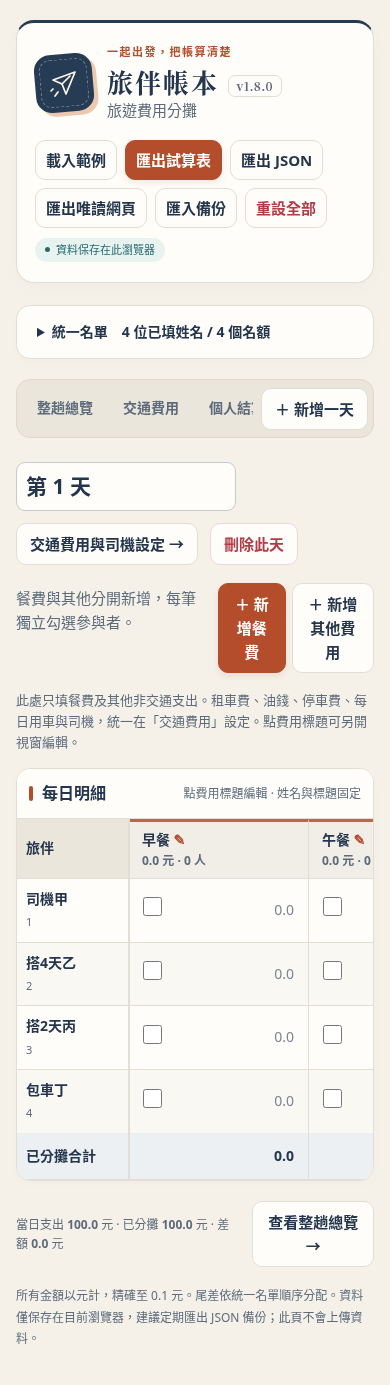
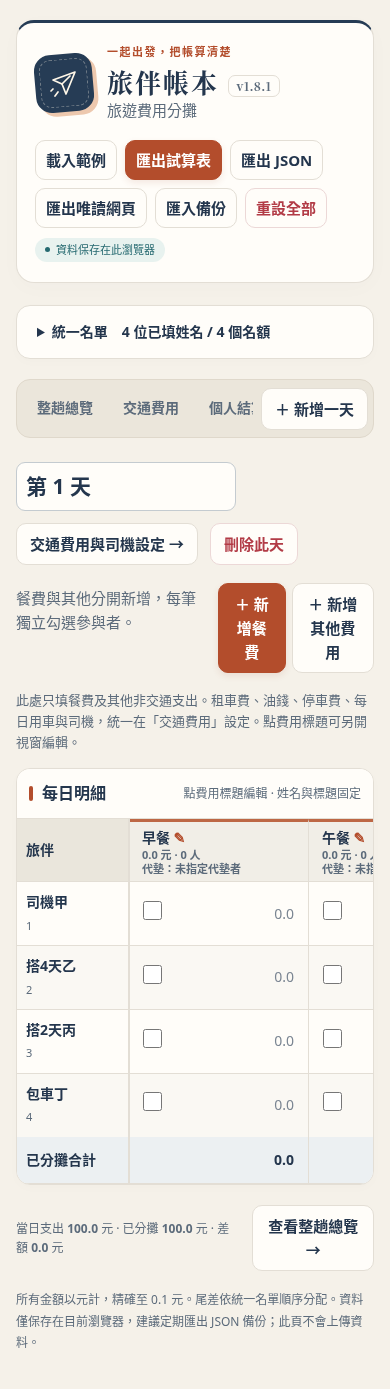
Show expense payers and clarify prepaid group fees and pending refunds in v1.8.1

diff --git a/index.html b/index.html
@@ -4,7 +4,7 @@
 <meta charset="utf-8">
 <meta name="viewport" content="width=device-width, initial-scale=1">
 <meta name="theme-color" content="#263c55">
-<title>旅伴帳本 v1.8.0｜旅遊費用分攤</title>
+<title>旅伴帳本 v1.8.1｜旅遊費用分攤</title>
 <style>
 :root{color-scheme:light;--ink:#24364d;--muted:#5c6b7b;--accent:#b34d2c;--pale:#f7e9df;--paper:#fffdf9;--bg:#f5f1e9;--line:#e3ded5;--amber:#946017;--red:#b23b46;--navy:#263c55;--teal:#256970;--teal-pale:#e8f2ef;--name:156px;--driver:88px;font-family:system-ui,-apple-system,"Noto Sans CJK TC","Microsoft JhengHei",sans-serif}
 
@@ -109,13 +109,16 @@ thead .driver-cell{z-index:5;background:#eae6dc}
 .daily-title{font-size:21px!important;font-weight:700;width:220px;background:var(--paper)!important;border-color:var(--line);border-bottom:2px solid #c6aa8e}
 .switch{display:flex;align-items:center;gap:8px;padding:8px 12px;background:var(--teal-pale);border-radius:10px;color:var(--teal)}
 .daily-note{font-size:13px;color:var(--muted);margin-bottom:15px}
-.expense-title{min-width:180px;width:180px;text-align:left;padding:8px 13px;line-height:1.4;border-top:3px solid #b5aa99}
+.expense-title{min-width:180px;width:180px;text-align:left;padding:6px 13px;line-height:1.4;border-top:3px solid #b5aa99}
 .expense-title[data-category="breakfast"],.expense-title[data-category="lunch"],.expense-title[data-category="dinner"]{border-top-color:#bd6745}
 .expense-title[data-category="fuel"],.expense-title[data-category="rental"]{border-top-color:#4e708d}
 .expense-title[data-category="parking"]{border-top-color:#508580}
 .expense-open{display:block;width:100%;border:0;background:transparent;padding:0;text-align:left;font-size:14px;line-height:1.4}
 .compact-expense-name{display:block;max-width:154px;white-space:nowrap;overflow:hidden;text-overflow:ellipsis;font-weight:700}
 .compact-expense-name [aria-hidden]{color:var(--accent)}
+.expense-meta,.expense-payer{display:block;font-size:11px;line-height:1.25;color:var(--muted)}
+.expense-payer{max-width:154px;white-space:nowrap;overflow:hidden;text-overflow:ellipsis}
+.payer-note{display:block;margin-top:4px;font-size:12px;line-height:1.4;font-weight:400;color:var(--muted);text-align:left;overflow-wrap:anywhere}
 .expense-open:hover{background:transparent;border-color:transparent;box-shadow:none;color:var(--accent)}
 .daily-compact-row .driver-cell{white-space:nowrap;font-size:12px}
 .expense-dialog{width:min(960px,calc(100vw - 48px));max-width:none;max-height:calc(100dvh - 48px);padding:0;border:1px solid var(--line);border-radius:16px;color:var(--ink);background:var(--bg);box-shadow:0 24px 100px #1d304f50}
@@ -220,7 +223,7 @@ body{background:white}
 <body>
 <div class="wrap">
   <header class="top">
-    <div class="brand"><div class="brandmark" aria-hidden="true"><svg width="32" height="32" viewBox="0 0 32 32" fill="none"><path d="M27 5 5 13l9 4 4 10L27 5Z" stroke="currentColor" stroke-width="1.7" stroke-linejoin="round"/><path d="m14 17 8-8M5 22l-2 2m7 1-3 4" stroke="currentColor" stroke-width="1.7" stroke-linecap="round"/></svg></div><div><div class="eyebrow">一起出發，把帳算清楚</div><h1>旅伴帳本 <span class="app-version" id="app-version">v1.8.0</span></h1><p class="muted">旅遊費用分攤</p></div></div>
+    <div class="brand"><div class="brandmark" aria-hidden="true"><svg width="32" height="32" viewBox="0 0 32 32" fill="none"><path d="M27 5 5 13l9 4 4 10L27 5Z" stroke="currentColor" stroke-width="1.7" stroke-linejoin="round"/><path d="m14 17 8-8M5 22l-2 2m7 1-3 4" stroke="currentColor" stroke-width="1.7" stroke-linecap="round"/></svg></div><div><div class="eyebrow">一起出發，把帳算清楚</div><h1>旅伴帳本 <span class="app-version" id="app-version">v1.8.1</span></h1><p class="muted">旅遊費用分攤</p></div></div>
     <div class="top-right"><div class="tools">
       <button type="button" data-action="example">載入範例</button>
       <button type="button" class="primary" data-action="export-sheet">匯出試算表</button>
@@ -244,7 +247,7 @@ body{background:white}
 <script id="trip-core">
 'use strict';
 const TripCore = (() => {
-  const APP_VERSION = '1.8.0';
+  const APP_VERSION = '1.8.1';
   const VERSION = 8;
   const LIMITS = Object.freeze({members:200, family:100, days:100, expenses:100, ledger:5000, units:1000000000});
   const CATEGORIES = Object.freeze({breakfast:'早餐', lunch:'午餐', dinner:'晚餐', meal:'餐費', fuel:'油錢', rental:'租車費', parking:'停車費', other:'其他'});
@@ -777,17 +780,20 @@ globalThis.TripExport=TripExport;
       ${!p?'<div class="warn">此成員尚未填姓名，既有紀錄仍保留，但不計入個人結算。請先在統一名單補齊姓名。</div>':''}
       <p class="daily-note" id="personal-family-note">本筆帳代表 ${C.familySize(member)} 人（含本人）。費用分攤按代表人數計算；代墊、加購、已繳款及加減金額為整筆實際金額，不再乘人數。</p>
       <div class="personal-metrics">${metrics.map(([key,label])=>`<div><span class="tiny muted">${label}</span><div class="money" data-personal="${key}">${money(p?.[key]||0)} 元</div></div>`).join('')}</div>
+      ${p?.paid>0&&p?.receive>0?`<div class="success" id="personal-refund-note" role="status"><strong>${esc(memberName(member))}尚待收回 ${money(p.receive)} 元。</strong><br>已繳款 ${money(p.paid)} 元，依目前費用、代墊及已退款紀錄計算。尚未退錢前保留「應收回」；實際退回後，再新增「已退款」，不要修改原本的已繳款。</div>`:''}
       <section class="panel"><div class="table-caption"><h3>應負擔明細</h3><button type="button" data-action="tab" data-tab="vehicles">查看交通計算 →</button></div><div class="table-scroll"><table class="settlement-table" aria-label="個人結算組成"><thead><tr><th>來源</th><th>金額（元）</th></tr></thead><tbody>
       <tr><th>餐費</th><td class="money" data-personal-source="meals">${money(p?.meals||0)}</td></tr>
       <tr><th>每日其他費用</th><td class="money" data-personal-source="daily-other">${money((p?.daily||0)-(p?.meals||0))}</td></tr>
       <tr><th>交通費用（自動帶入）<span class="person-index">租車 ${money(traffic?.rental||0)} ＋ 油錢 ${money(traffic?.fuel||0)} ＋ 停車 ${money(traffic?.parking||0)}</span></th><td class="money" data-personal-source="transport">${money(p?.transport||0)}</td></tr>
       <tr><th>個人加購</th><td class="money" data-personal-source="personal">${money(p?.personal||0)}</td></tr><tr><th>其他加減</th><td class="money" data-personal-source="adjustment">${money(p?.adjustment||0)}</td></tr></tbody><tfoot><tr><th>總應負擔</th><td class="money" data-personal-source="total">${money(p?.total||0)}</td></tr></tfoot></table></div>
       <p class="daily-note" style="padding:12px 18px;margin:0">交通代墊 <strong class="money" data-personal-source="transport-advanced">${money(p?.transportAdvanced||0)}</strong> 元，已包含於「已代墊」，只扣一次。交通金額隨原費用與名單變動更新，不必再新增個人紀錄。</p></section>
-      <section class="panel"><div class="table-caption"><h3>其他用途、加購與收退款</h3><span class="tiny muted">金額均填正數 · 單位：元</span></div><div class="table-scroll" id="personal-scroll"><table class="ledger-table" aria-label="個人紀錄"><thead><tr><th>類型</th><th>用途／備註</th><th>正負</th><th>金額</th><th>加購代墊者</th><th>操作</th></tr></thead><tbody>${entries.map(e=>{
+      <section class="panel" id="personal-advances"><div class="table-caption"><h3>已代墊明細（自動彙總）</h3><span class="tiny muted" id="personal-advance-person">${advances.length?'代墊者':'目前成員'}：${esc(memberName(member))} · 合計 ${money(p?.advanced||0)} 元</span></div>${advances.length?`<ul class="advance-list">${advances.map(a=>`<li>${esc(a.label)}：<strong class="money">${money(a.units)} 元</strong> <button type="button" class="text tiny" data-action="goto-expense" data-tab="${a.ledgerId?'personal':a.dayId}" data-person="${selectedPerson}" data-ledger="${a.ledgerId||''}" data-expense="${a.expenseId||''}">查看來源 →</button></li>`).join('')}</ul>`:'<p class="empty">尚無代墊紀錄。在交通費用、每日費用或個人加購指定代墊者，即會自動列入。</p>'}</section>
+      <p class="daily-note" id="personal-payment-help"><strong>代墊＝付給店家；已繳款＝交給主辦人。</strong>上方代墊明細已自動扣抵，請勿再填成已繳款。此處「加購代墊者」只用於個人加購。</p>
+      <section class="panel"><div class="table-caption"><h3>其他用途、加購與收退款</h3><span class="tiny muted">金額均填正數 · 單位：元</span></div><div class="table-scroll" id="personal-scroll"><table class="ledger-table" aria-label="個人紀錄"><thead><tr><th>類型</th><th>用途／備註</th><th>正負</th><th>金額</th><th>付款／代墊說明</th><th>操作</th></tr></thead><tbody>${entries.map(e=>{
         const result=s.ledgerResults.find(r=>r.id===e.id);
-        return `<tr><td><select id="ledger-type-${e.id}" data-field="ledger-type" data-ledger="${e.id}" aria-label="紀錄類型">${Object.entries(C.LEDGER_TYPES).map(([value,label])=>`<option value="${value}" ${e.type===value?'selected':''}>${label}</option>`).join('')}</select></td><td class="description"><input id="ledger-description-${e.id}" data-field="ledger-description" data-ledger="${e.id}" aria-label="項目備註" maxlength="160" value="${esc(e.description)}" placeholder="例如額外車資、折讓、訂金"><div class="expense-status">${result.issues.map(i=>esc(i.message)).join('<br>')}</div></td><td><select id="ledger-direction-${e.id}" data-field="ledger-direction" data-ledger="${e.id}" aria-label="正負方向" ${e.type!=='adjustment'?'disabled':''}><option value="plus" ${e.direction==='plus'?'selected':''}>＋ 加收</option><option value="minus" ${e.direction==='minus'?'selected':''}>－ 扣抵</option></select></td><td><input id="ledger-amount-${e.id}" data-field="ledger-amount" data-ledger="${e.id}" aria-label="紀錄金額" inputmode="decimal" maxlength="32" placeholder="0.0" value="${esc(e.amount)}" aria-invalid="${!result.amountValid}"></td><td>${e.type==='charge'?`<select id="ledger-payer-${e.id}" data-field="ledger-payer" data-ledger="${e.id}" aria-label="加購代墊者">${payerOptions(e)}</select>`:`<span class="tiny muted">${e.type==='adjustment'?'其他調整不新增支出':'與主辦人之間的收退款'}</span>`}</td><td><button type="button" class="small danger" data-action="delete-ledger" data-ledger="${e.id}">刪除</button></td></tr>`;
+        return `<tr><td><select id="ledger-type-${e.id}" data-field="ledger-type" data-ledger="${e.id}" aria-label="紀錄類型">${Object.entries(C.LEDGER_TYPES).map(([value,label])=>`<option value="${value}" ${e.type===value?'selected':''}>${label}</option>`).join('')}</select></td><td class="description"><input id="ledger-description-${e.id}" data-field="ledger-description" data-ledger="${e.id}" aria-label="項目備註" maxlength="160" value="${esc(e.description)}" placeholder="例如額外車資、折讓、訂金"><div class="expense-status">${result.issues.map(i=>esc(i.message)).join('<br>')}</div></td><td><select id="ledger-direction-${e.id}" data-field="ledger-direction" data-ledger="${e.id}" aria-label="正負方向" ${e.type!=='adjustment'?'disabled':''}><option value="plus" ${e.direction==='plus'?'selected':''}>＋ 加收</option><option value="minus" ${e.direction==='minus'?'selected':''}>－ 扣抵</option></select></td><td><input id="ledger-amount-${e.id}" data-field="ledger-amount" data-ledger="${e.id}" aria-label="紀錄金額" inputmode="decimal" maxlength="32" placeholder="0.0" value="${esc(e.amount)}" aria-invalid="${!result.amountValid}"></td><td>${e.type==='charge'?`<select id="ledger-payer-${e.id}" data-field="ledger-payer" data-ledger="${e.id}" aria-label="加購代墊者">${payerOptions(e)}</select>`:`<span class="tiny muted">${e.type==='adjustment'?'其他調整不新增支出':e.type==='payment'?'繳款人：'+esc(memberName(member))+' → 主辦人（預收團費）':'主辦人 → '+esc(memberName(member))+'（已退款）'}</span>`}</td><td><button type="button" class="small danger" data-action="delete-ledger" data-ledger="${e.id}">刪除</button></td></tr>`;
       }).join('')||'<tr><td colspan="6" class="empty">尚無個人紀錄，按「新增個人紀錄」填用途、金額及正負。</td></tr>'}</tbody></table></div></section>
-      <section class="panel"><div class="table-caption"><h3>已代墊明細（自動彙總）</h3><span class="tiny muted">同一筆費用只記一次</span></div>${advances.length?`<ul class="advance-list">${advances.map(a=>`<li>${esc(a.label)}：<strong class="money">${money(a.units)} 元</strong> <button type="button" class="text tiny" data-action="goto-expense" data-tab="${a.ledgerId?'personal':a.dayId}" data-person="${selectedPerson}" data-ledger="${a.ledgerId||''}" data-expense="${a.expenseId||''}">查看來源 →</button></li>`).join('')}</ul>`:'<p class="empty">尚無代墊紀錄。在交通費用、每日費用或個人加購指定代墊者，即會自動列入。</p>'}</section>
+
       <p class="muted tiny">代墊＝已替旅伴付給店家；已繳款＝已交給主辦人的款項。若每日費用已填代墊者，請勿再次當作已繳款登錄。退款實際付出後才記「已退款」。其他用途的 ＋／－ 調整只改變應付金額，不算新支出；真正加購請選「個人加購」並指定代墊者。</p>`;
   }
   function shareRange(r) {
@@ -795,6 +801,14 @@ globalThis.TripExport=TripExport;
     if(!values.length||r.blocked)return '暫不分攤';
     const lo=Math.min(...values),hi=Math.max(...values);
     const unit=r.grouped?'組':'人';return lo===hi?`${money(lo)} 元／${unit}`:`${money(lo)}–${money(hi)} 元／${unit}`;
+  }
+  function payerName(e) {
+    const person=state.members.find(m=>m.id===e?.payerId);
+    return person&&C.isNamed(person)?person.name.trim():e?.payerId?'原代墊者未填姓名':'未指定代墊者';
+  }
+  function payerNote(e,compact=false) {
+    const label='代墊：'+payerName(e);
+    return `<span class="${compact?'expense-payer':'payer-note'}" data-payer="${e?.id||''}" title="${esc(label)}">${esc(label)}</span>`;
   }
   function payerOptions(e) {
     let html=`<option value="">未指定代墊者</option>`;
@@ -942,7 +956,7 @@ globalThis.TripExport=TripExport;
     const ungrouped=state.carExpenses.filter(e=>!e.vehicleId),vehicleRows=state.vehicles.map(v=>{
       const related=state.carExpenses.filter(e=>e.vehicleId===v.id),rent=related.find(e=>e.category==='rental'),gas=related.find(e=>e.category==='fuel'),rental=rent?C.parseTripAmount(rent):{ok:true,units:0,grossUnits:0,discountUnits:0},fuel=gas?C.parseTripAmount(gas):{ok:true,units:0};
       const pending=results.filter((r,i)=>state.carExpenses[i].vehicleId===v.id).reduce((n,r)=>n+r.issues.length,0);
-      return `<tr><th class="name-cell">${esc(v.name||'未命名車輛')}${pending?`<span class="person-index">待處理 ${pending} 項 · 請編輯或檢查搭車名單</span>`:''}</th><td class="money" data-fleet="${v.id}-rental-gross">${money(rental.grossUnits)}</td><td class="money" data-fleet="${v.id}-discount">${rental.discountValid===false?'待修正':money(rental.discountUnits)}${rent?.discountNote?`<span class="person-index" style="display:block">${esc(rent.discountNote)}</span>`:''}</td><td class="money" data-fleet="${v.id}-rental">${rental.ok?money(rental.units):'待修正'}</td><td class="money" data-fleet="${v.id}-fuel">${fuel.ok?money(fuel.units):'待修正'}</td><td class="money" data-fleet="${v.id}-total">${rental.ok&&fuel.ok?money(rental.units+fuel.units):'待修正'}</td><td><button type="button" class="small" data-action="edit-vehicle" data-vehicle="${v.id}">${readOnly?'查看':'編輯'}</button></td></tr>`;
+      return `<tr><th class="name-cell">${esc(v.name||'未命名車輛')}${pending?`<span class="person-index">待處理 ${pending} 項 · 請編輯或檢查搭車名單</span>`:''}</th><td class="money"><span data-fleet="${v.id}-rental-gross">${money(rental.grossUnits)}</span>${payerNote(rent)}</td><td class="money" data-fleet="${v.id}-discount">${rental.discountValid===false?'待修正':money(rental.discountUnits)}${rent?.discountNote?`<span class="person-index" style="display:block">${esc(rent.discountNote)}</span>`:''}</td><td class="money" data-fleet="${v.id}-rental">${rental.ok?money(rental.units):'待修正'}</td><td class="money"><span data-fleet="${v.id}-fuel">${fuel.ok?money(fuel.units):'待修正'}</span>${payerNote(gas)}</td><td class="money" data-fleet="${v.id}-total">${rental.ok&&fuel.ok?money(rental.units+fuel.units):'待修正'}</td><td><button type="button" class="small" data-action="edit-vehicle" data-vehicle="${v.id}">${readOnly?'查看':'編輯'}</button></td></tr>`;
     }).join('');
     $('view').innerHTML=`<div class="section-head"><div><h2>交通費用</h2><p class="muted">每台車分開填租金與油錢，合併按乘車人天分攤。</p></div></div>
       ${renderTransportDays()}
@@ -950,7 +964,7 @@ globalThis.TripExport=TripExport;
       <div class="stats"><div class="stat featured"><div class="label">總車資</div><div class="value money" data-transport="total">${money(fuel+rental)}<span class="unit">元</span></div><div class="note">實際支出 ${money(transport.cashExpense)} − 優惠收入 ${money(transport.income)} 元</div></div><div class="stat"><div class="label">租金分攤淨額</div><div class="value money" data-transport="rental">${money(rental)}<span class="unit">元</span></div><div class="note">${invalidRental?'有待修正的原租金或優惠；修正前保留實付及代墊、暫不分攤':'實付／代墊 '+money(grossRental)+' − 收入 '+money(discounts)+' 元'}</div></div><div class="stat"><div class="label">總油錢</div><div class="value money" data-transport="fuel">${money(fuel)}<span class="unit">元</span></div></div><div class="stat"><div class="label">已分攤</div><div class="value money">${money(sum('allocated'))}<span class="unit">元</span></div><div class="note">差額 ${money(sum('units')-sum('allocated'))} 元</div></div></div>
       <p class="daily-note">交通自理者不計人天；當司機的日期免付。每天可選全天或半天（0.5人天／人）；名單儲存後會套用本區所有車資。僅登錄本團車輛；他人自付的包車費不列入。租車與油錢只填一次；下方每日交通支出為選填，僅供停車等額外費用。同一筆費用請勿重複輸入。</p>
       <section class="panel"><div class="table-caption"><h3>各車租金與油錢</h3><span class="tiny muted">${state.vehicles.length} 台車 · 單位：元</span></div><div class="table-scroll"><table style="min-width:850px" aria-label="各車交通費用"><thead><tr><th class="name-cell corner">車輛</th><th>租金實付／代墊</th><th>優惠收入</th><th>租金分攤淨額</th><th>油錢</th><th>該車合計</th><th>操作</th></tr></thead><tbody>${vehicleRows||'<tr><td colspan="7" class="empty">按「新增車輛」逐台填寫，例如大車1、大車2、小車。</td></tr>'}</tbody></table></div></section>
-      ${ungrouped.length?`<section class="panel"><div class="table-caption"><h3>其他整趟車資</h3></div><div class="table-scroll"><table class="trip-costs-table" aria-label="整趟車資費用"><thead><tr><th scope="col">費用（點選${readOnly?'查看':'編輯'}）</th><th scope="col">總金額</th><th scope="col">分攤方式</th><th scope="col">涵蓋日期</th><th scope="col">已分攤</th><th scope="col">狀態</th></tr></thead><tbody>${ungrouped.map(e=>{const r=results[state.carExpenses.indexOf(e)];return `<tr><td><button id="edit-${e.id}" type="button" class="text" data-action="open-expense" data-expense="${e.id}">${esc(e.name||'未命名費用')} ↗</button></td><td class="money">${r.amountValid?money(r.units):'待修正'}</td><td>${e.method==='person-days'?'依乘車人天':'先平均每天'}</td><td>${r.days.map(day=>esc(day.dayName||'未命名日期')).join('、')||'未選日期'}</td><td class="money">${money(r.allocated)}</td><td>${r.issues.length?'待處理 '+r.issues.length+' 項':'已核對'}</td></tr>`;}).join('')}</tbody></table></div></section>`:!state.vehicles.length?'<div class="trip-empty"><h3>還車才加油，也能整趟分攤</h3><p class="muted">新增一筆總油錢，勾選涵蓋的日期與每日乘客；多台車可合併總額，或分成多筆記錄。</p></div>':''}
+      ${ungrouped.length?`<section class="panel"><div class="table-caption"><h3>其他整趟車資</h3></div><div class="table-scroll"><table class="trip-costs-table" aria-label="整趟車資費用"><thead><tr><th scope="col">費用（點選${readOnly?'查看':'編輯'}）</th><th scope="col">分攤淨額／代墊者</th><th scope="col">分攤方式</th><th scope="col">涵蓋日期</th><th scope="col">已分攤</th><th scope="col">狀態</th></tr></thead><tbody>${ungrouped.map(e=>{const r=results[state.carExpenses.indexOf(e)];return `<tr><td><button id="edit-${e.id}" type="button" class="text" data-action="open-expense" data-expense="${e.id}">${esc(e.name||'未命名費用')} ↗</button></td><td class="money">${r.amountValid?money(r.units):'待修正'}${payerNote(e)}<span class="payer-note">實際代墊 ${money(r.advanceUnits)} 元</span></td><td>${e.method==='person-days'?'依乘車人天':'先平均每天'}</td><td>${r.days.map(day=>esc(day.dayName||'未命名日期')).join('、')||'未選日期'}</td><td class="money">${money(r.allocated)}</td><td>${r.issues.length?'待處理 '+r.issues.length+' 項':'已核對'}</td></tr>`;}).join('')}</tbody></table></div></section>`:!state.vehicles.length?'<div class="trip-empty"><h3>還車才加油，也能整趟分攤</h3><p class="muted">新增一筆總油錢，勾選涵蓋的日期與每日乘客；多台車可合併總額，或分成多筆記錄。</p></div>':''}
       ${renderDailyTransport()}
 <section class="panel"><div class="table-caption"><h3>交通結算 · 自動帶入個人結算</h3><button type="button" data-action="tab" data-tab="personal">查看個人結算 →</button></div><p class="daily-note" style="padding:0 18px">交通支出 ${money(transport.total)} 元 · 已分攤 ${money(transport.allocated)} 元 · 差額 ${money(transport.difference)} 元。包含各車租金、油錢及每日停車等交通支出。</p><div class="table-scroll"><table aria-label="交通結算"><thead><tr><th>旅伴</th><th>租車費</th><th>油錢</th><th>停車費</th><th>交通分攤</th><th>交通代墊</th></tr></thead><tbody>${transport.people.map(p=>`<tr><th>${esc(p.name)}${p.count>1?`<span class="person-index"> · 代表 ${p.count} 人</span>`:''}</th>${['rental','fuel','parking','total','advanced'].map(key=>`<td class="money" data-transport-person="${p.id}-${key}" ${['rental','fuel'].includes(key)?`data-vehicle="${p.id}-${key}"`:''}>${money(p[key])}</td>`).join('')}</tr>`).join('')}</tbody></table></div></section>`;
   }
@@ -958,7 +972,7 @@ globalThis.TripExport=TripExport;
     const d=currentDay();if(!d){active='overview';renderOverview();return;}
     const visible=d.expenses.filter(e=>!C.isTransport(e));
     const results=new Map(visible.map(e=>[e.id,C.calculateExpense(state,d,e)]));
-    const titles=visible.map(e=>{const r=results.get(e.id);return `<th scope="col" class="expense-title" data-category="${e.category}" id="title-${e.id}"><button type="button" class="expense-open" id="edit-${e.id}" data-action="open-expense" data-expense="${e.id}" aria-label="${readOnly?'查看':'編輯'}費用 ${esc(e.name||'未命名費用')}"><span class="compact-expense-name" title="${esc(e.name||'未命名費用')}">${esc(e.name||'未命名費用')} <span aria-hidden="true">${readOnly?'↗':'✎'}</span></span><span class="tiny muted">${r.amountValid?money(r.units)+' 元':'金額待修正'} · <span data-count="${e.id}">${r.blocked?0:r.participantCount}</span> 人${r.issues.length?' · 待處理':''}</span></button></th>`;}).join('');
+    const titles=visible.map(e=>{const r=results.get(e.id);return `<th scope="col" class="expense-title" data-category="${e.category}" id="title-${e.id}"><button type="button" class="expense-open" id="edit-${e.id}" data-action="open-expense" data-expense="${e.id}" aria-label="${readOnly?'查看':'編輯'}費用 ${esc(e.name||'未命名費用')}"><span class="compact-expense-name" title="${esc(e.name||'未命名費用')}">${esc(e.name||'未命名費用')} <span aria-hidden="true">${readOnly?'↗':'✎'}</span></span><span class="expense-meta">${r.amountValid?money(r.units)+' 元':'金額待修正'} · <span data-count="${e.id}">${r.blocked?0:r.participantCount}</span> 人${r.issues.length?' · 待處理':''}</span>${payerNote(e,true)}</button></th>`;}).join('');
     const rows=state.members.map((m,i)=>`<tr><th scope="row" class="name-cell"><span class="person-label ${C.isNamed(m)?'':'muted'}">${esc(memberName(m))}</span><span class="person-index">${i+1} ${!C.isNamed(m)?'· 不列入分攤':C.familySize(m)>1?`· 代表 ${C.familySize(m)} 人`:''}</span></th>
       ${visible.map(e=>{const r=results.get(e.id), exempt=C.isCar(e)&&d.useCar&&d.drivers.includes(m.id)&&C.isNamed(m);return `<td><div class="participation"><label><input type="checkbox" id="part-${e.id}-${m.id}" data-field="participation" data-person="${m.id}" data-expense="${e.id}" aria-label="${esc(memberName(m))} 參與 ${esc(e.name||'未命名費用')} 費用 ${d.expenses.indexOf(e)+1}" ${e.participantIds.includes(m.id)?'checked':''} ${C.isNamed(m)&&!(C.isTransport(e)&&m.excludeTransport)?'':'disabled'}></label><div><span class="amount-label money ${r.shares[m.id]?'':'cell-zero'}" data-share="${e.id}-${m.id}">${money(r.shares[m.id])}</span><span class="cell-note">${C.isTransport(e)&&m.excludeTransport?'交通自理 · 不計費':exempt?'司機免車資':C.isCar(e)&&!d.useCar?'當日未用車':!C.isNamed(m)?'待填姓名':r.blocked?'待處理':''}</span></div></div></td>`;}).join('')}</tr>`).join('');
     const issues=visible.reduce((n,e)=>n+results.get(e.id).issues.length,0), total=visible.reduce((n,e)=>n+results.get(e.id).units,0), allocated=visible.reduce((n,e)=>n+results.get(e.id).allocated,0);

diff --git a/tests/browser_test.py b/tests/browser_test.py
@@ -60,8 +60,8 @@ def main():
 
             context.route('**/*', route_request)
             page.goto(url)
-            expect(page).to_have_title('旅伴帳本 v1.8.0｜旅遊費用分攤')
-            expect(page.locator('#app-version')).to_have_text('v1.8.0')
+            expect(page).to_have_title('旅伴帳本 v1.8.1｜旅遊費用分攤')
+            expect(page.locator('#app-version')).to_have_text('v1.8.1')
             expect(page.get_by_role('tab')).to_have_count(7)
             expect(page.locator('#total-expense')).to_have_text('0.0元')
             expect(page.locator('#roster-summary')).to_contain_text('0 位已填姓名 / 25 個名額')
@@ -488,7 +488,7 @@ def main():
             editor_state = state()
             shared = context.new_page()
             shared.goto(url.replace('index.html', 'shared-view.html'))
-            expect(shared).to_have_title('旅伴帳本 v1.8.0｜唯讀旅遊費用')
+            expect(shared).to_have_title('旅伴帳本 v1.8.1｜唯讀旅遊費用')
             expect(shared.locator('.tools')).to_be_hidden()
             expect(shared.locator('#roster')).to_be_hidden()
             expect(shared.locator('[data-action="add-day"]')).to_be_hidden()
@@ -957,9 +957,17 @@ def main():
             expect(page.locator('#ledger-direction-' + payment)).to_be_disabled()
             expect(page.locator('#ledger-direction-' + payment)).to_have_value('minus')
             expect(page.locator('[data-personal="receive"]')).to_have_text('3,260.0 元')
+            expect(page.locator('#personal-refund-note')).to_contain_text('甲旅伴尚待收回 3,260.0 元')
+            expect(page.locator('#personal-scroll')).to_contain_text('繳款人：甲旅伴 → 主辦人（預收團費）')
+            assert not any(e['type']=='refund' for e in state()['ledger'])
+            before_refund=state();page.reload();assert state()==before_refund
+            expect(page.locator('#personal-refund-note')).to_contain_text('不要修改原本的已繳款')
+            record('預繳10000但只負擔6740，清楚顯示繳款人與待退3260；刷新保留，未實際退款不會自動新增退款')
             refund = add_entry('refund', '已退回差額', '3260')
             expect(page.locator('[data-personal="receive"]')).to_have_text('0.0 元')
             expect(page.locator('[data-personal="pay"]')).to_have_text('0.0 元')
+            expect(page.locator('#personal-refund-note')).to_have_count(0)
+            expect(page.locator('#personal-scroll')).to_contain_text('主辦人 → 甲旅伴（已退款）')
             tab('overview')
             expect(page.locator('#total-expense')).to_have_text('6,740.0元')
             expect(page.locator('#collected-total')).to_contain_text('6,740.0 元')
@@ -1347,18 +1355,63 @@ def main():
             assert report['整趟車資']['J4'].value==5250
             assert report['整趟總覽']['J3'].value==6310 and report['整趟總覽']['L3'].value==400
             assert report['個人結算']['H4'].value==6010 and report['個人結算']['M4'].value==1654.3
-            assert 'v1.8.0' in report['整趟總覽']['A1'].value
-            assert report['使用說明']['B3'].value=='v1.8.0'
+            assert 'v1.8.1' in report['整趟總覽']['A1'].value
+            assert report['使用說明']['B3'].value=='v1.8.1'
             with page.expect_download() as info:page.get_by_role('button',name='匯出唯讀網頁',exact=True).click()
             income_view=artifacts/'rental-income-view.html';info.value.save_as(income_view)
             context.route('**/rental-income-view.html',lambda r:r.fulfill(path=str(income_view),content_type='text/html; charset=utf-8'))
             ir=context.new_page();ir.goto(url.replace('index.html','rental-income-view.html'))
-            expect(ir).to_have_title('旅伴帳本 v1.8.0｜唯讀旅遊費用')
-            expect(ir.locator('#app-version')).to_have_text('v1.8.0')
+            expect(ir).to_have_title('旅伴帳本 v1.8.1｜唯讀旅遊費用')
+            expect(ir.locator('#app-version')).to_have_text('v1.8.1')
             expect(ir.locator('#total-income')).to_have_text('400.0')
             ir.locator('#tab-personal').click();ir.locator('#personal-person').select_option(fa)
             expect(ir.locator('[data-personal="advanced"]')).to_have_text('6,010.0 元');ir.close()
-            record('收入與全額代墊可保存還原及匯出，頁面／分頁標題／唯讀網頁／XLSX一致顯示v1.8.0')
+            record('收入與全額代墊可保存還原及匯出，頁面／分頁標題／唯讀網頁／XLSX一致顯示v1.8.1')
+
+            # Names are visible at the original costs and the prepaid group-payment row.
+            current=state();rent_cost=next(e for e in current['carExpenses'] if e['category']=='rental')
+            gas_cost=next(e for e in current['carExpenses'] if e['category']=='fuel')
+            tab('vehicles')
+            expect(page.locator(f'[data-payer="{rent_cost["id"]}"]')).to_have_text('代墊：甲家庭改名')
+            expect(page.locator(f'[data-payer="{gas_cost["id"]}"]')).to_have_text('代墊：乙家庭')
+            old_name=current['members'][0]['name'];display_name='甲主辦人 & <同行>'
+            roster();page.locator('#name-'+fa).fill(display_name);roster(False)
+            expect(page.locator(f'[data-payer="{rent_cost["id"]}"]')).to_have_text('代墊：'+display_name)
+            tab(family_days[0]);meal_id=next(e['id'] for e in state()['days'][0]['expenses'] if e['category']=='breakfast')
+            expect(page.locator(f'[data-payer="{meal_id}"]')).to_have_text('代墊：'+display_name)
+            assert page.locator('.daily-compact-row').bounding_box()['height']<=64
+            tab('personal');page.locator('#personal-person').select_option(fa)
+            expect(page.locator('#personal-advance-person')).to_contain_text('代墊者：'+display_name)
+            expect(page.locator('#personal-advance-person')).to_contain_text('6,010.0 元')
+            expect(page.locator('#personal-scroll')).to_contain_text('繳款人：'+display_name+' → 主辦人（預收團費）')
+            assert page.locator('#personal-advances').evaluate('(el)=>Boolean(el.compareDocumentPosition(document.querySelector("#personal-scroll")) & Node.DOCUMENT_POSITION_FOLLOWING)')
+            expect(page.locator('[data-personal="advanced"]')).to_have_text('6,010.0 元')
+            expect(page.locator('[data-personal="receive"]')).to_have_text('1,654.3 元')
+            page.screenshot(path=str(artifacts/'visible-payers-personal.png'),full_page=True)
+            roster();page.locator('#name-'+fa).fill('');roster(False);tab('vehicles')
+            expect(page.locator(f'[data-payer="{rent_cost["id"]}"]')).to_have_text('代墊：原代墊者未填姓名')
+            roster();page.locator('#name-'+fa).fill(old_name);roster(False)
+            page.locator(f'[data-action="edit-vehicle"][data-vehicle="{discount_vehicle}"]').click()
+            page.locator('#vehicle-rental-payer').select_option('');page.get_by_role('button',name='儲存車輛',exact=True).click()
+            expect(page.locator(f'[data-payer="{rent_cost["id"]}"]')).to_have_text('代墊：未指定代墊者')
+            page.locator(f'[data-action="edit-vehicle"][data-vehicle="{discount_vehicle}"]').click()
+            page.locator('#vehicle-rental-payer').select_option(fa);page.get_by_role('button',name='儲存車輛',exact=True).click()
+            assert state()==current
+            page.reload();expect(page.locator(f'[data-payer="{rent_cost["id"]}"]')).to_have_text('代墊：甲家庭改名')
+            with page.expect_download() as info:page.get_by_role('button',name='匯出唯讀網頁',exact=True).click()
+            payer_view=artifacts/'visible-payers-view.html';info.value.save_as(payer_view)
+            context.route('**/visible-payers-view.html',lambda r:r.fulfill(path=str(payer_view),content_type='text/html; charset=utf-8'))
+            pv=context.new_page();pv.goto(url.replace('index.html','visible-payers-view.html'));pv.locator('#tab-vehicles').click()
+            expect(pv.locator(f'[data-payer="{rent_cost["id"]}"]')).to_have_text('代墊：甲家庭改名')
+            pv.locator('#tab-personal').click();pv.locator('#personal-person').select_option(fa)
+            expect(pv.locator('#personal-advance-person')).to_contain_text('6,010.0 元');pv.close()
+            page.set_viewport_size({'width':390,'height':844});tab(family_days[0])
+            expect(page.locator(f'[data-payer="{meal_id}"]')).to_have_text('代墊：甲家庭改名')
+            assert page.locator('.daily-compact-row').bounding_box()['height']<=64
+            assert page.evaluate('document.documentElement.scrollWidth<=innerWidth+1')
+            page.screenshot(path=str(artifacts/'visible-payers-mobile.png'),full_page=True)
+            page.set_viewport_size({'width':1440,'height':1000})
+            record('租金／油錢／每日費用直接顯示代墊者，個人代墊明細前移；改名安全同步、空白未指定清楚提示，唯讀及手機正確且標題仍不超過64px')
 
             assert not errors, errors
             assert not external_requests, external_requests

diff --git a/tests/export_test.py b/tests/export_test.py
@@ -93,8 +93,8 @@ def main():
         assert units(ov['J3'].value)==summary['cashExpense']
         assert units(ov['L3'].value)==summary['income']
         assert summary['cashExpense']-summary['income']==summary['total']
-        assert 'v1.8.0' in ov['A1'].value
-        assert wb['使用說明']['B3'].value=='v1.8.0'
+        assert 'v1.8.1' in ov['A1'].value
+        assert wb['使用說明']['B3'].value=='v1.8.1'
         assert units(ov['D3'].value)==summary['allocated']
         assert units(ov['F3'].value)==summary['difference']
         assert ov['H3'].value==len(summary['issues'])

diff --git a/README.md b/README.md
@@ -1,6 +1,6 @@
-# 旅伴帳本 v1.8.0：HTML 記帳、Google 試算表分享
+# 旅伴帳本 v1.8.1：HTML 記帳、Google 試算表分享
 
-頁面主標題、瀏覽器分頁、唯讀分享網頁與 XLSX 報表均顯示 **v1.8.0**。本版修正：租車優惠為額外收入，不能扣掉代墊者實際支付的金額。
+頁面主標題、瀏覽器分頁、唯讀分享網頁與 XLSX 報表均顯示 **v1.8.1**。本版直接顯示代墊者，並在個人結算區分「預收團費」「代墊」「待退款」。租車優惠為額外收入，不能扣掉代墊者實際支付的金額。
 
 你在 HTML 填費用、勾參與者，工具完成分攤後匯出 `.xlsx`，再用 Google 試算表分享給旅伴看。不需要登入網頁、後端、外部 API、CDN 或 Apps Script。
 
@@ -110,7 +110,13 @@ python -m http.server 8000 --bind 127.0.0.1
 
 金額欄填非負數，正負方向另選。加購、繳款、退款的方向由類型固定，避免記反；「其他用途／調整」可自行選 ＋／－。不會自行四捨五入成整十元。
 
-「**已代墊明細**」自動列出每日費用、各車租金與油錢和個人加購的代墊來源，可點回原費用修改。**代墊是付給店家；已繳款是交給主辦人，同一筆不可重複登錄扣款。**
+「**已代墊明細**」移到收退款表格前，直接顯示目前代墊者姓名與合計，自動列出每日費用、各車租金與油錢和個人加購的代墊來源，可點回原費用修改。**代墊是付給店家；已繳款是交給主辦人，同一筆不可重複登錄扣款。**
+
+**先交 10,000 元給主辦人**：在交錢者的「個人結算」選「已繳款」，填預收的 10,000 元。這筆不是代墊；表格會顯示「繳款人：姓名 → 主辦人（預收團費）」。若最後只需負擔 6,740 元，會顯示「應收回 3,260 元」及待退款提示。尚未實際退款前，不改原本的已繳款，也不先新增退款；真正退還後，才新增「已退款 3,260 元」，並顯示退款方向。
+
+租車與油錢的實付金額下方、每日費用的精簡標題，以及額外整趟車資，都直接顯示代墊者姓名；未指定或姓名被清空時有明確提示，改名沿用 ID 同步更新。每日固定標題仍不超過 64px，不增加嵌入式表單。
+
+[預收團費與待退款桌面畫面](docs/preview-prepaid-refund.png) · [手機待退款畫面](docs/preview-prepaid-refund-mobile.png)
 
 總應負擔＝各項費用分攤＋個人加購＋其他加減；還要付＝總應負擔－已代墊－已繳款＋已退款，負數列為應收回。例如費用 6,740、先繳 10,000，應收回 3,260；實際退回後登錄已退款 3,260，即結清。
 
@@ -154,4 +160,4 @@ python tests/browser_test.py --browser /path/to/chromium
 
 計算測試使用 Node.js 18 以上。XLSX 測試需要 Python 與 openpyxl；瀏覽器測試另需 Playwright 與 Chromium。網頁本身不需要安裝這些測試工具。
 
-實測通過 83 項計算、58 組瀏覽器情境及 31 組 XLSX 匯出；涵蓋逐人逐日全天／半天、半天家庭及司機、半天備份／報表、逐車租車優惠、實付與收入分列、優惠不減代墊、5250元實付案例、版本顯示、家庭代表人數、家庭司機只免一人、家庭人天與備份、每日餐費／其他兩個入口、無類別選單、交通與每日明細分開、個人結算只帶入一次、三車不同租金、交通自理排除、乘車人天、獨立三餐、每日司機、尾差、個人加減、代墊、收退款、保存還原、精簡固定標題、獨立編輯視窗、取消與儲存，以及 390px 手機全螢幕。詳見 [測試紀錄](TEST_RESULTS.md)。Google 帳戶內的實際匯入與共用未實測；環境政策阻擋 `file://`，瀏覽器實測使用本機 HTTP。
+實測通過 83 項計算、60 組瀏覽器情境及 31 組 XLSX 匯出；涵蓋逐人逐日全天／半天、半天家庭及司機、半天備份／報表、逐車租車優惠、實付與收入分列、優惠不減代墊、5250元實付案例、版本顯示、家庭代表人數、家庭司機只免一人、家庭人天與備份、每日餐費／其他兩個入口、無類別選單、交通與每日明細分開、個人結算只帶入一次、三車不同租金、交通自理排除、乘車人天、獨立三餐、每日司機、尾差、個人加減、代墊、收退款、保存還原、精簡固定標題、獨立編輯視窗、取消與儲存，以及 390px 手機全螢幕。詳見 [測試紀錄](TEST_RESULTS.md)。Google 帳戶內的實際匯入與共用未實測；環境政策阻擋 `file://`，瀏覽器實測使用本機 HTTP。

diff --git a/TEST_RESULTS.md b/TEST_RESULTS.md
@@ -2,7 +2,7 @@
 
 測試日期：2026-10-19（Asia/Taipei）。實際執行 HTML 內的運算引擎，並以 Chromium 154 進行瀏覽器操作；不是僅檢查程式碼或計畫。
 
-配色更新後已重跑全部 58 組瀏覽器情境，並檢視桌面、390px 手機、個人結算及寬版費用視窗的截圖。暖白／藏青／陶橘／湖水藍配色、分色卡片及紙飛機圖示均不使用 CDN 或外部字型。另以內建範例產出 [桌面預覽](docs/preview-desktop.png) 與 [手機預覽](docs/preview-mobile.png)，未放入私人帳目。另提供新功能的 [交通費用桌面預覽](docs/preview-transport.png)、[每日搭車名單](docs/preview-ride-plan.png) 與 [手機預覽](docs/preview-transport-mobile.png)，均為測試假資料。
+配色更新後已重跑全部 60 組瀏覽器情境，並檢視桌面、390px 手機、個人結算及寬版費用視窗的截圖。暖白／藏青／陶橘／湖水藍配色、分色卡片及紙飛機圖示均不使用 CDN 或外部字型。另以內建範例產出 [桌面預覽](docs/preview-desktop.png) 與 [手機預覽](docs/preview-mobile.png)，未放入私人帳目。另提供新功能的 [交通費用桌面預覽](docs/preview-transport.png)、[每日搭車名單](docs/preview-ride-plan.png) 與 [手機預覽](docs/preview-transport-mobile.png)，均為測試假資料。
 
 ## 計算與備份：83 項通過
 
@@ -98,7 +98,7 @@
 82. 多車、家庭半天、代墊及收退款並存；分攤＋收入＝實際支出，個人收付加上團體收入守恆。
 83. version 7 備份保留原租金、收入、ID、司機及半天關聯，升級後全額代墊正確。
 
-## 真實瀏覽器：58 組情境通過
+## 真實瀏覽器：60 組情境通過
 
 執行：`python tests/browser_test.py --browser /usr/bin/chromium`。使用 Playwright 控制真正 Chromium，透過自動建立的本機 HTTP 伺服器開啟檔案。
 
@@ -166,7 +166,10 @@
 56. 唯讀網頁保留半天且不能修改；390px 手機可切全天／半天、儲存及刷新，無整頁水平溢出。
 
 57. 實際輸入租金 5,250、收入 400，代墊維持 5,250；修改收入不改代墊，家庭半天結算及團體收入正確。
-58. 收入與實付代墊可保存還原及匯出；主標題、瀏覽器分頁、唯讀網頁與 XLSX 一致顯示 v1.8.0。
+58. 收入與實付代墊可保存還原及匯出；主標題、瀏覽器分頁、唯讀網頁與 XLSX 一致顯示 v1.8.1。
+
+59. 預繳 10,000、應負擔 6,740，繳款人與待收回 3,260 清楚顯示；刷新保留，沒有自動新增退款；實際登錄退款後待退款提示消失。
+60. 租金、油錢、每日費用直接顯示代墊者；個人代墊明細前移，姓名及合計可見。改名與特殊文字安全同步，空白姓名／未指定明確提示，唯讀與手機正確，每日標題仍不超過 64px。
 
 測試會在系統暫存目錄產出桌面／手機截圖、JSON、唯讀 HTML 與 `report.json`，執行結束時印出實際目錄。所有測試資料皆為示例，不會預置到正式網頁。
 
@@ -205,8 +208,8 @@
 24. 家庭司機輪替僅免 1 人，逐日人數、人天與分攤欄位正確。
 
 25. 車輛租金實付 7,000、優惠收入 400、租金分攤 6,600、油錢 800，分攤淨額 7,400；代墊仍為租金 7,000 加油 800，收入文字不作公式執行。
-26. 全額優惠為零元，報表沒有假支出或警告。
-27. 超額優惠顯示待修正、原價仍保留，支出暫零且明列待處理。
+26. 全額優惠抵減後分攤為零元，原實付及代墊保留。
+27. 超額優惠顯示待修正，實付支出與代墊仍保留，暫不分攤且明列待處理。
 
 28. 同日全天／半天車資分攤 200／100 元，報表的天數與整數半人天正確。
 29. 半天家庭、司機輪替與租車優惠同時存在，人天為 3.5／3、租金分攤為 350／300 元。
@@ -222,7 +225,8 @@
 
 [全天／半天桌面畫面](docs/preview-half-day.png) 與 [手機畫面](docs/preview-half-day-mobile.png) 使用測試假資料；桌面搭車視窗加寬，計費人天與合計標題可完整顯示。
 
-另以 LibreOffice 實際開啟並另存租金實付 5,250、優惠收入 400 的 XLSX；14 個分頁、516 個非空白儲存格完整保留，包括全額代墊與 v1.8.0 版本。
+
+[預收團費與待退款畫面](docs/preview-prepaid-refund.png) 使用測試假資料：預繳10,000、餐費6,740、待收回3,260。
 
 ## 尚未實測／限制
 
